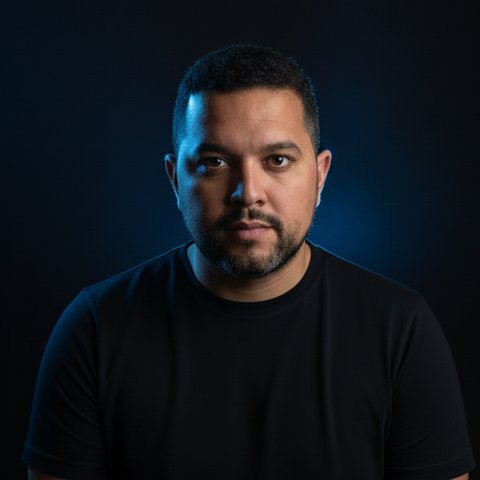
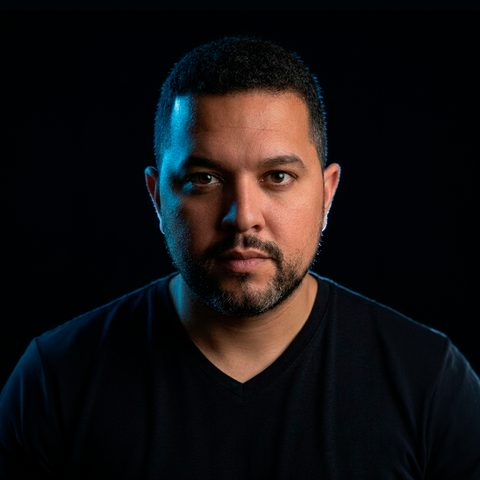
Atualiza a foto do Estevao no time
Nova foto 480x480 e ?v=2 no src para furar o cache do navegador e do
CloudFront. Fotos dos dois Leandros conferidas: ja eram as mesmas.

diff --git a/index.html b/index.html
@@ -624,7 +624,7 @@
         <p class="bio">Arquiteto de soluções com trajetória no ecossistema Totvs, onde atuou como especialista sênior. Une tecnologia e estratégia comercial, com experiência em lançamento de produtos, pricing e vendas.</p>
       </div>
       <div class="person">
-        <div class="person-photo"><img src="imagens/estevao.jpg" alt="Estevão Siqueira"></div>
+        <div class="person-photo"><img src="imagens/estevao.jpg?v=2" alt="Estevão Siqueira"></div>
         <div class="role">Head de Operações</div>
         <div class="nm">Estevão Siqueira</div>
         <p class="bio">Conecta produto, atendimento e operação no dia a dia da Asisto. Construiu sua trajetória em gestão de processos e times de suporte, experiência que hoje sustenta a entrega da empresa ao cliente.</p>
